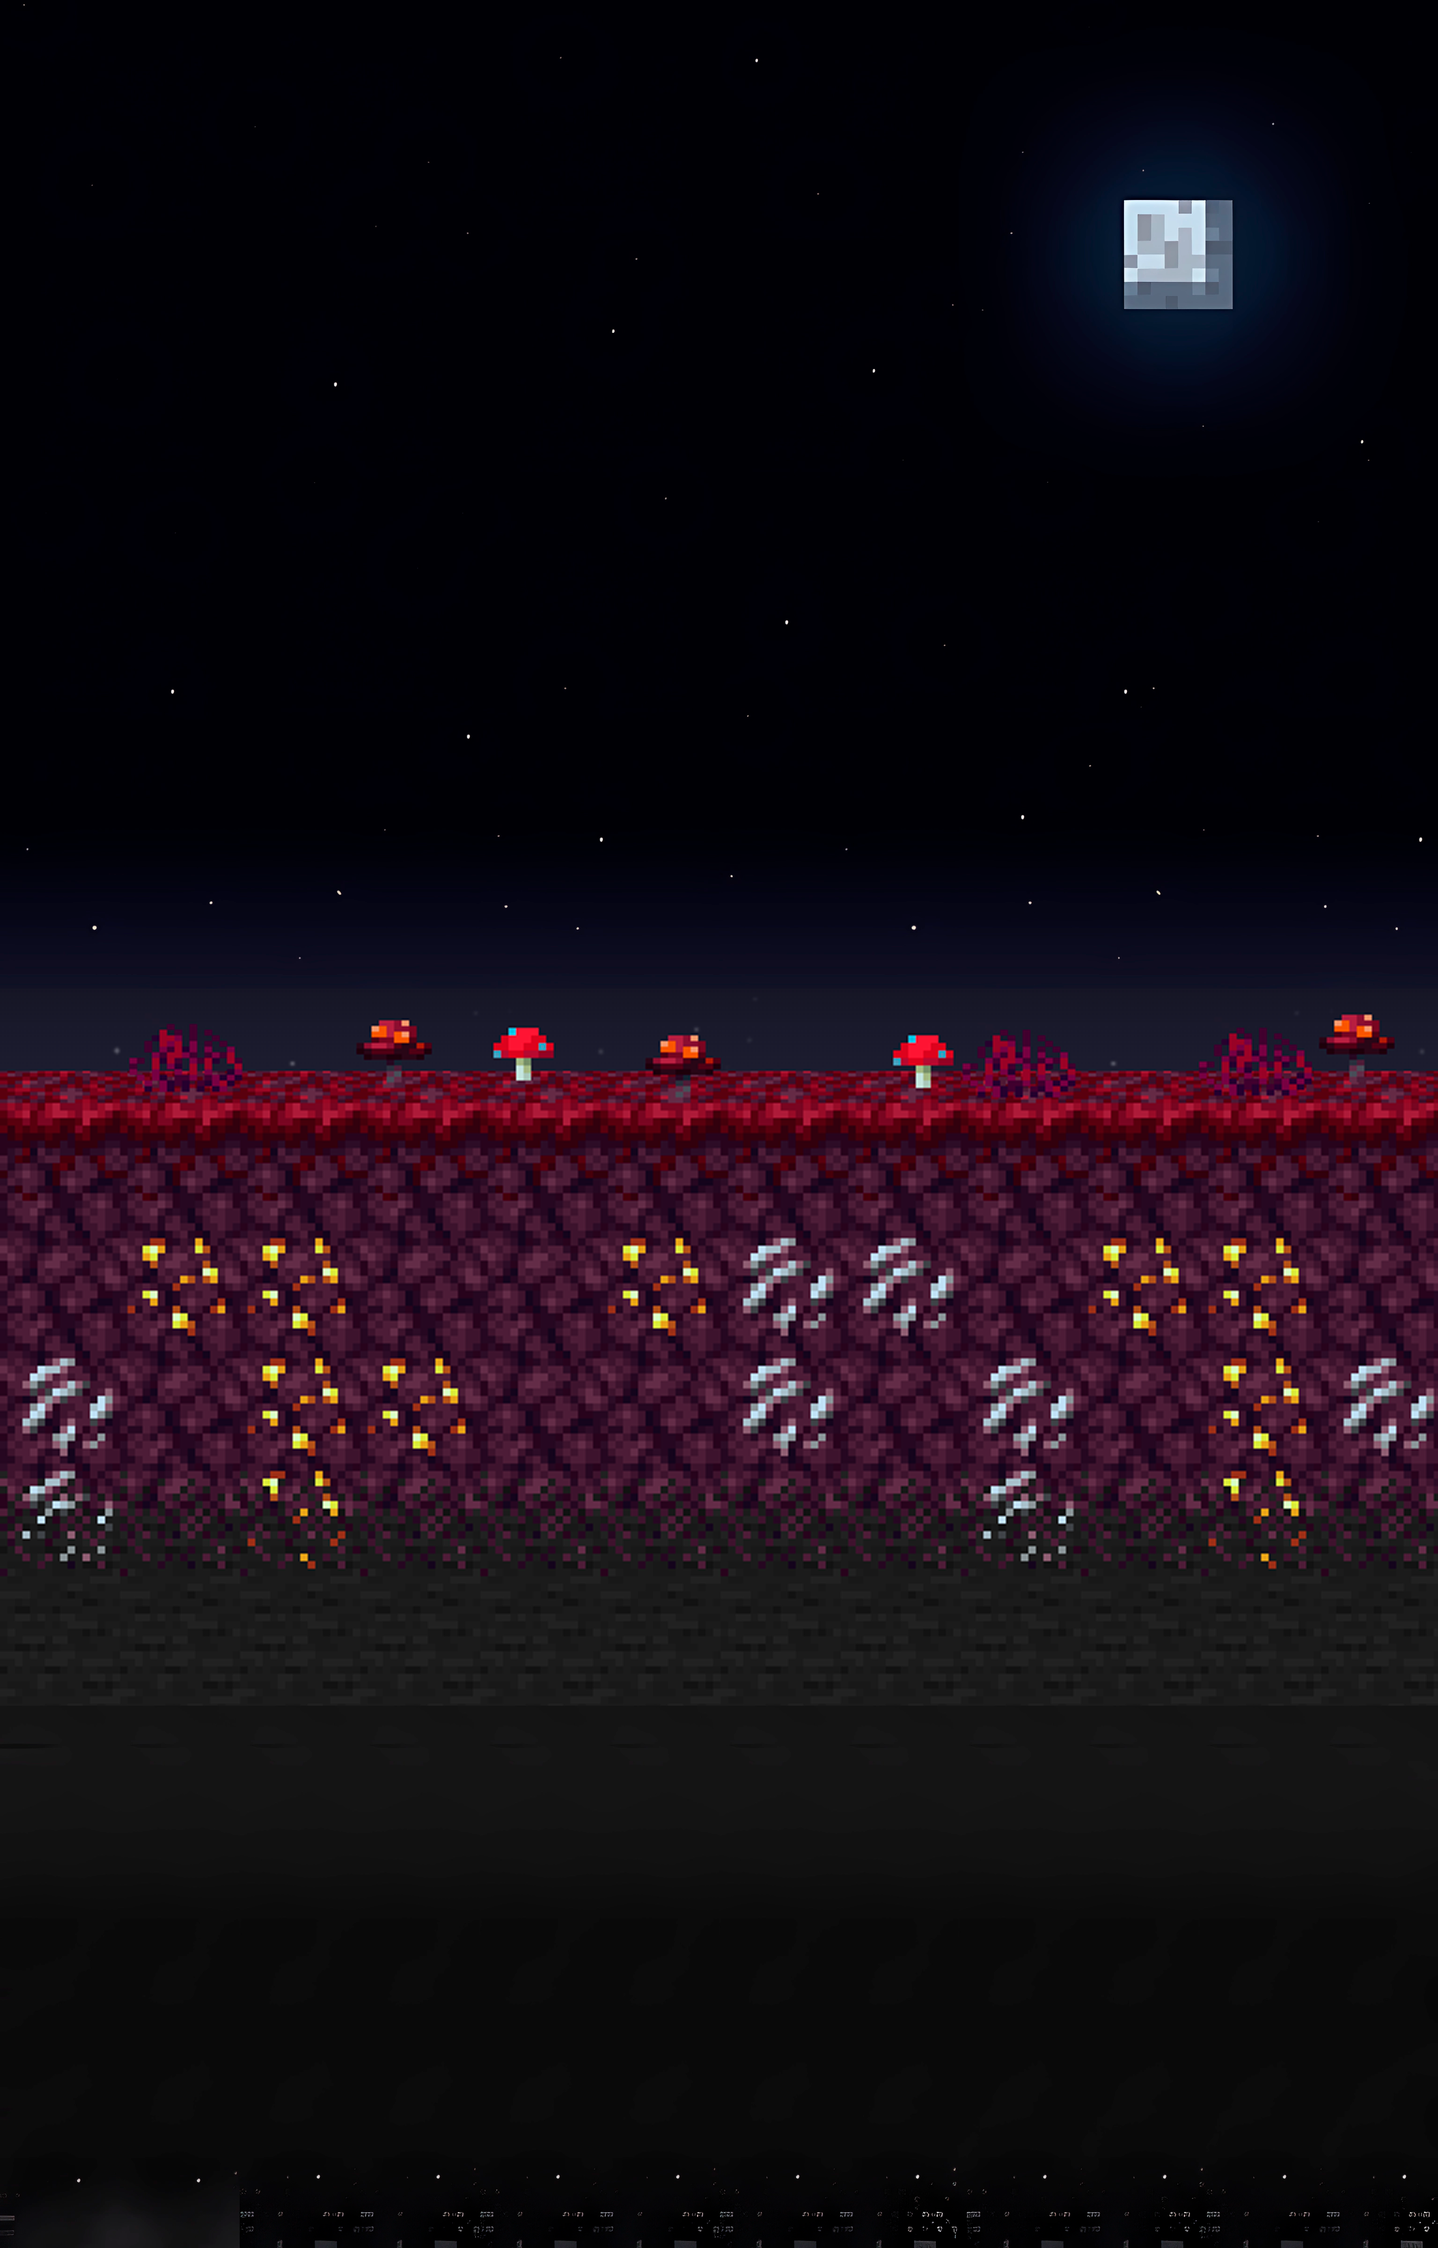
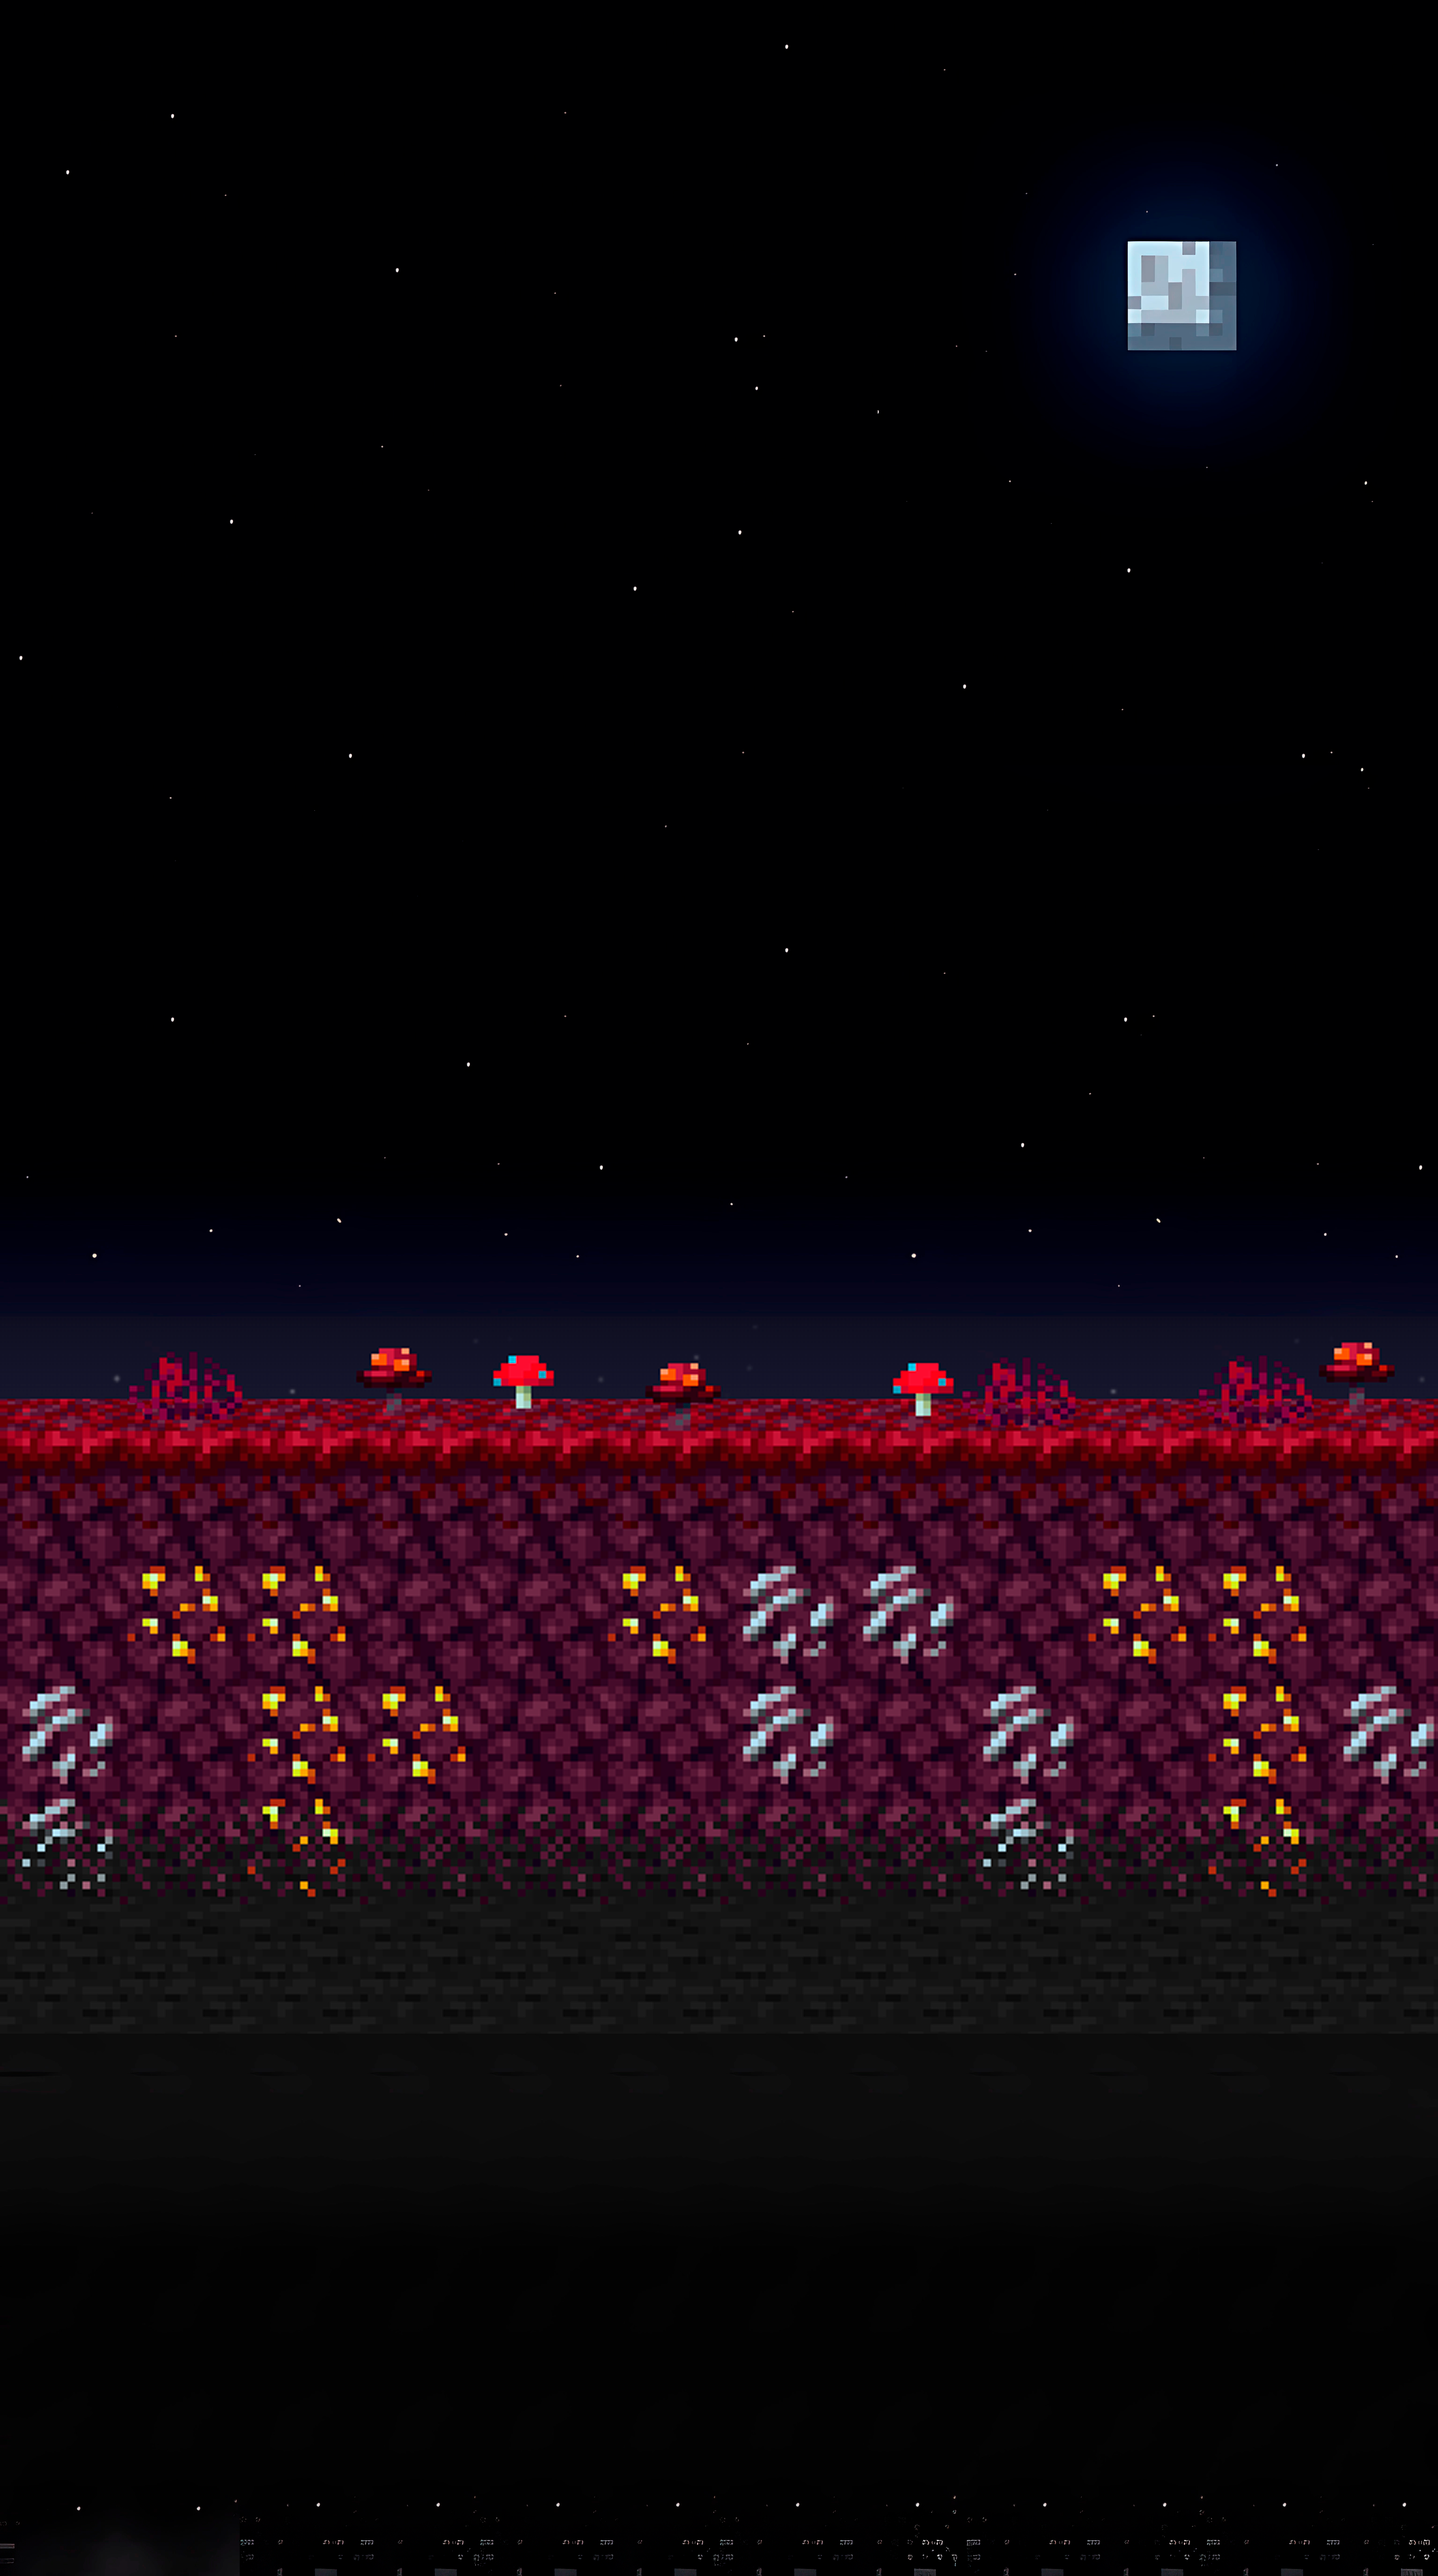
new

Changed region(s): [[0.0, 0.4062, 1.0, 0.75], [0.7812, 0.0625, 0.875, 0.1562]]

diff --git a/index.html b/index.html
@@ -365,12 +365,12 @@
 
     <section id="testim" class="testim">
         <div class="imagen-container">
-            <img src="img/testimonial/fondo_nether1.png" alt="">
+            <img src="img/testimonial/fondo_nether.png" alt="">
         </div>
 
         <div class="wrap">
-            <i class='arrow right fas' id="right-arrow">&#xf105;</i>
-            <i class='arrow left fas' id="left-arrow">&#xf104;</i>
+            <i class='arrow right fas' id="right-arrow"><img src="img/testimonial/Arrow.png" alt=""></i>
+            <i class='arrow left fas' id="left-arrow"><img src="img/testimonial/Arrow.png" alt=""></i>
             <ul id="testim-dots" class="dots">
 
                 <li class="dot testfirst"></li>

diff --git a/css/style_testimonials.css b/css/style_testimonials.css
@@ -34,7 +34,7 @@
 .testim .wrap {
     position: relative;
     width: 150%;
-    max-width: 1000px;
+    max-width: 800px;
     padding: 150px 20px;
     margin: auto;
 }
@@ -55,17 +55,25 @@
     padding: 5px;
     z-index: 1;
 }
+#right-arrow img{
+    width: 10%;
+}
+
+#left-arrow img{
+    width: 10%;
+    transform:rotate(180deg);
+}
 
 .testim .arrow:hover {
     color: #ea830e;
 }
 
 .testim .arrow.left {
-    left: 10px;
+    left: 2px;
 }
 
 .testim .arrow.right {
-    right: 10px;
+    right: -320px;
 }
 
 .testim .dots {
